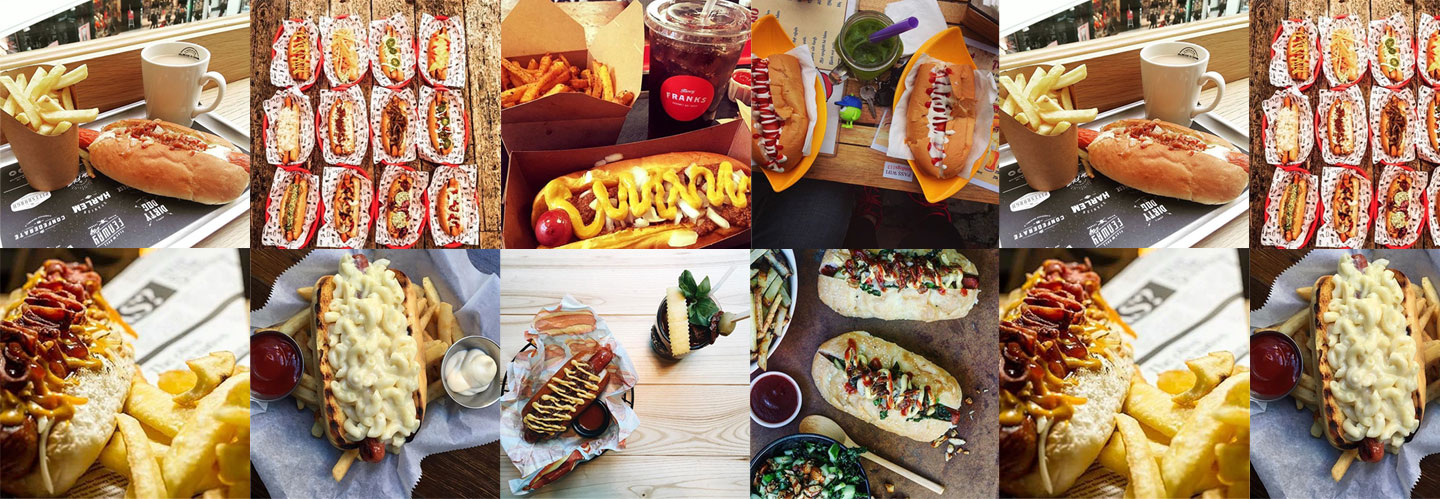
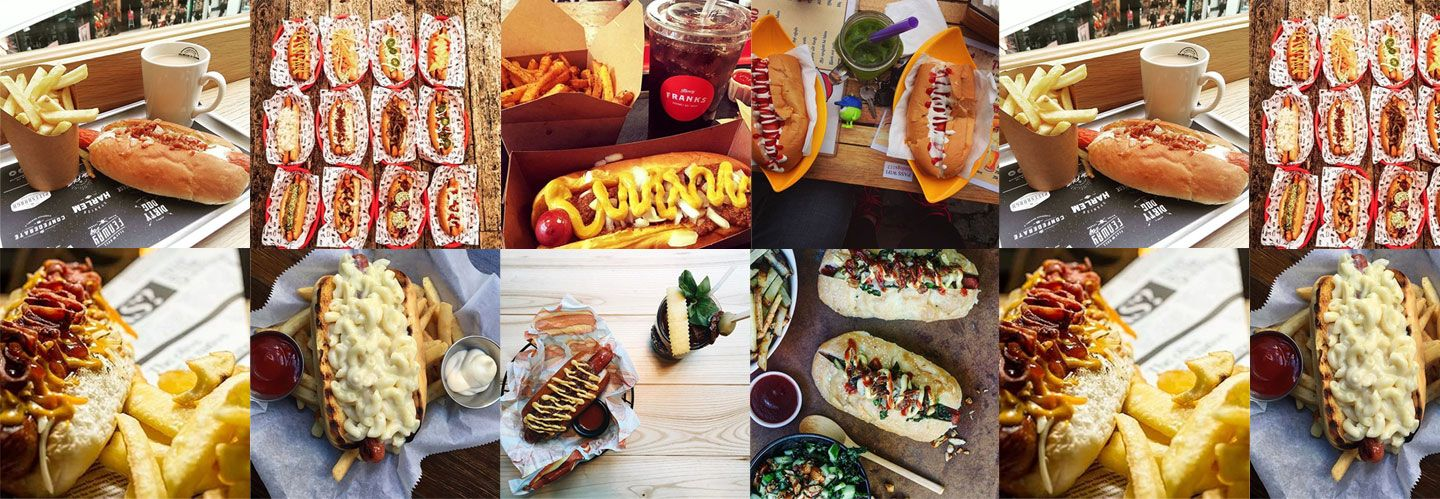
optimize images

diff --git a/README.md b/README.md
@@ -1,1 +1,4 @@
 # Clickky
+Test markup for Clickky.
+Include mobile and tablet ver.
+
